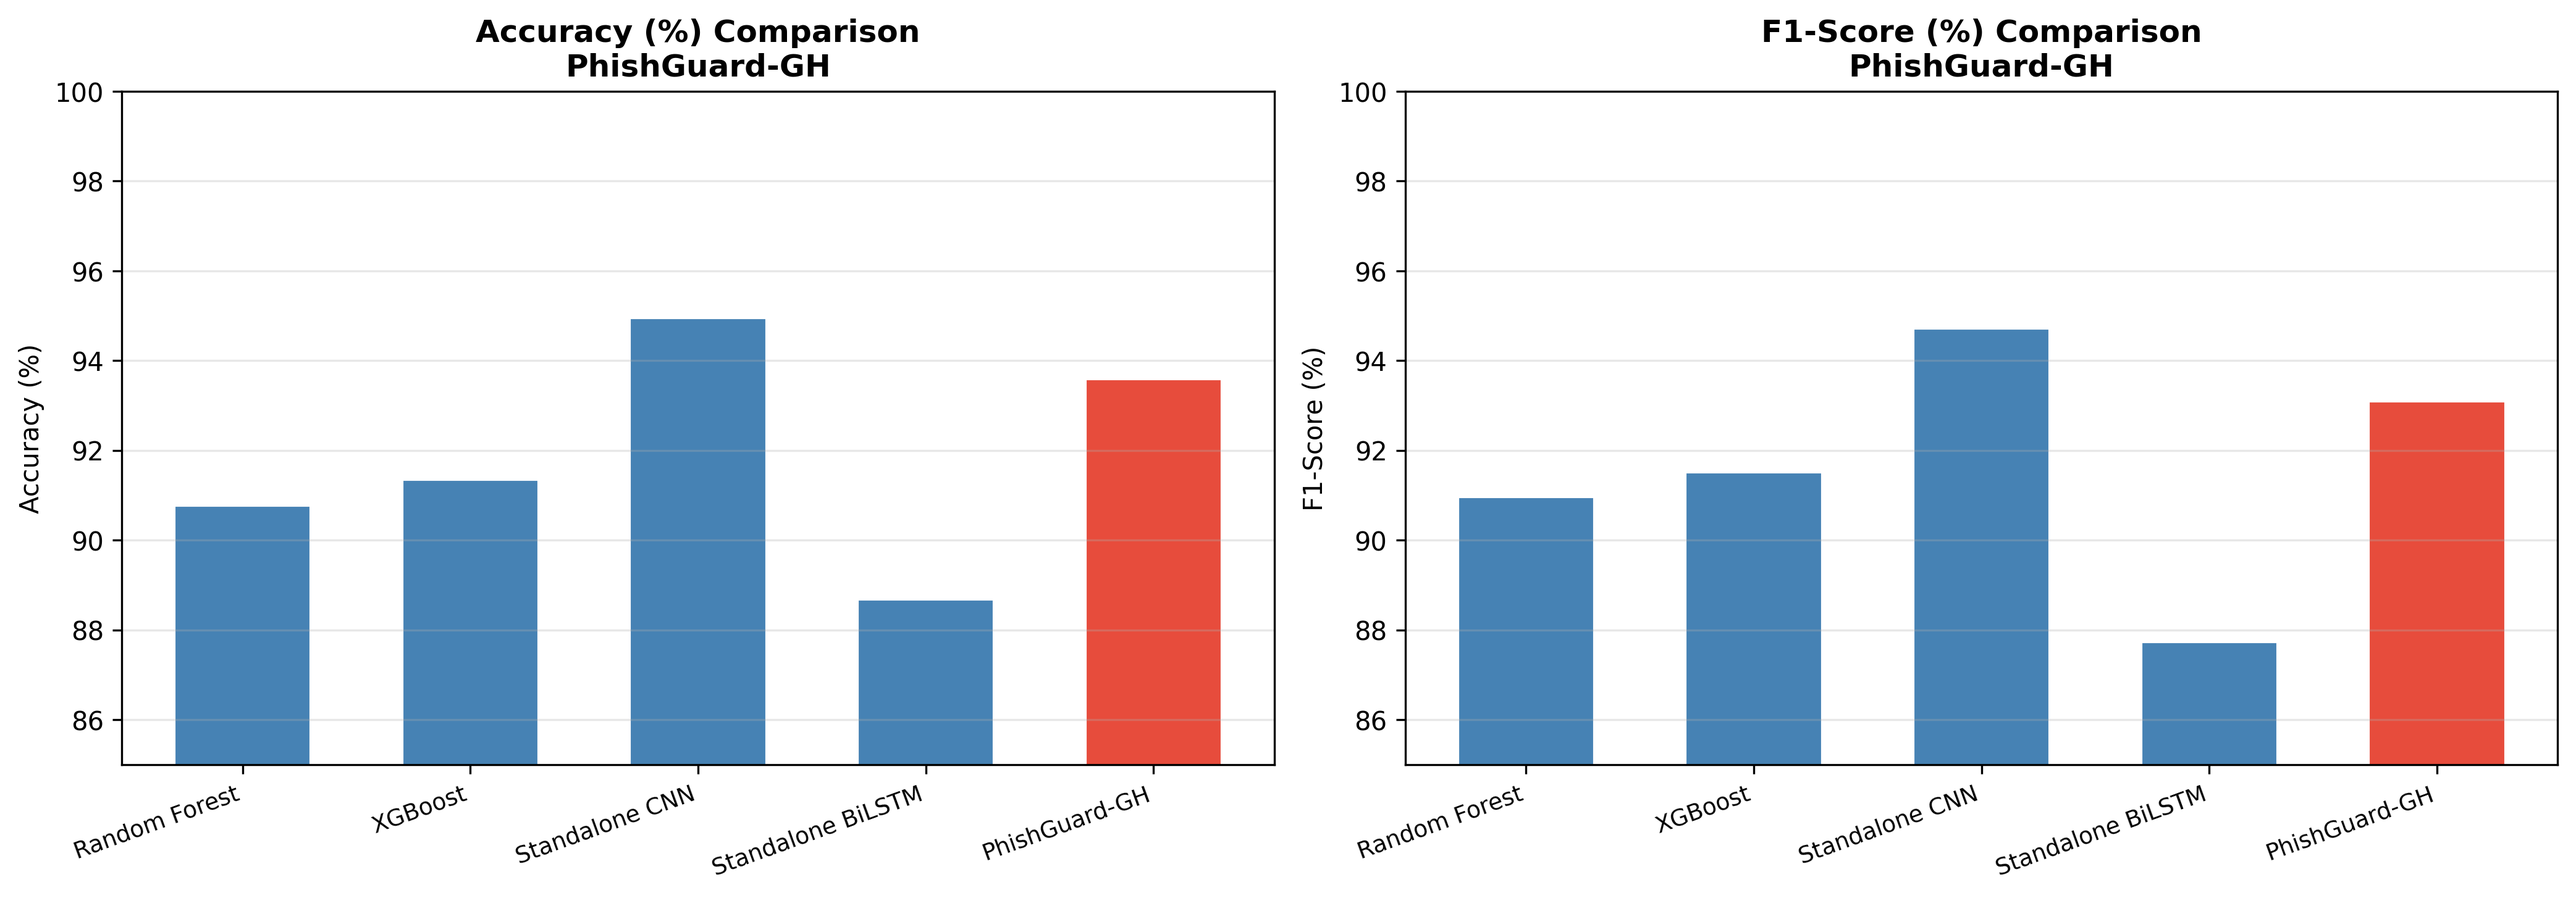
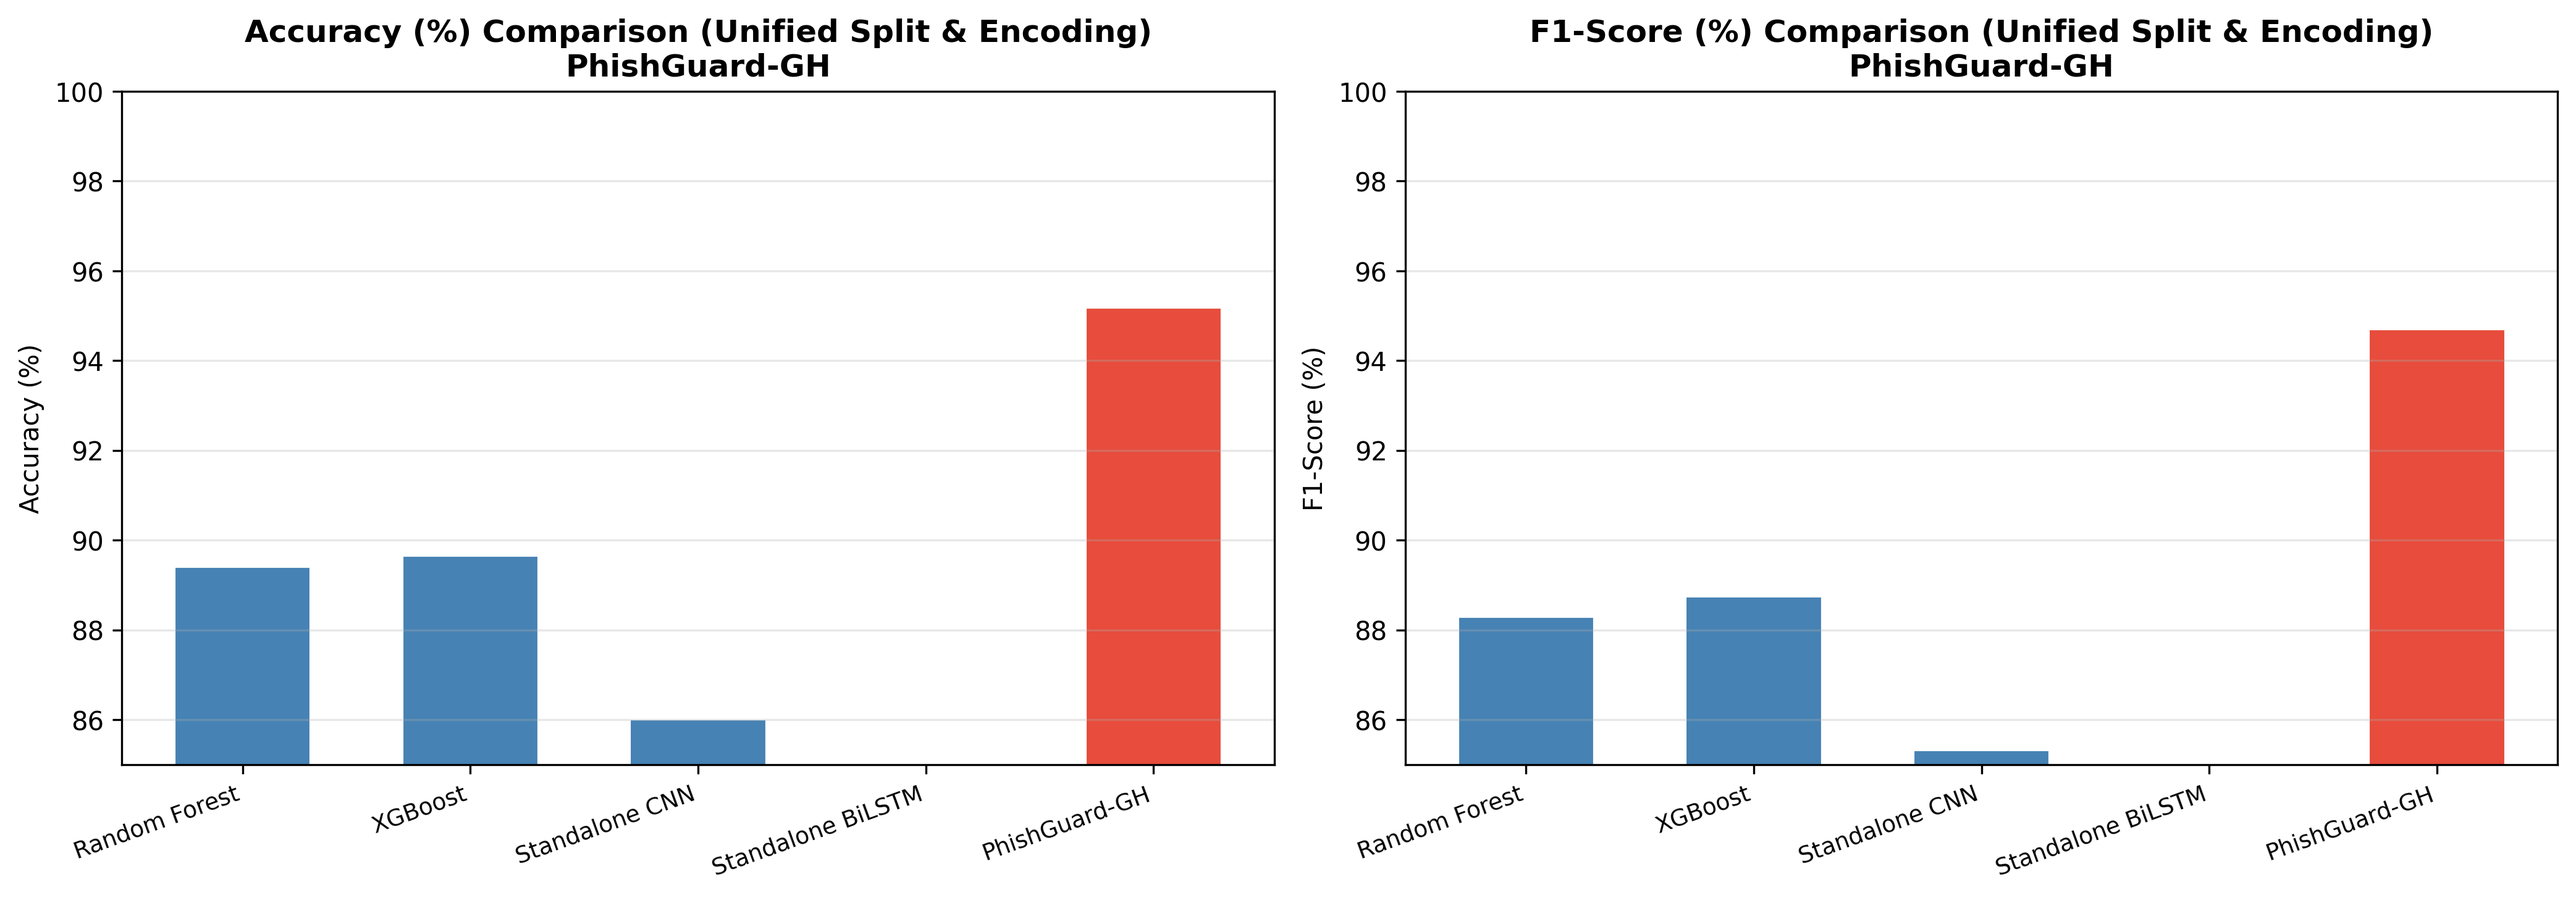
rerun of baseline

diff --git a/baseline_comparison.py b/baseline_comparison.py
@@ -1,108 +1,139 @@
+
+# PhishGuard-GH Baseline Model Comparison 
+
+
+
 import os, numpy as np, pandas as pd
-os.environ["TF_CPP_MIN_LOG_LEVEL"]="3"; os.environ["TF_ENABLE_ONEDNN_OPTS"]="0"
+os.environ["TF_CPP_MIN_LOG_LEVEL"] = "3"; os.environ["TF_ENABLE_ONEDNN_OPTS"] = "0"
 import keras
 from keras import layers, callbacks
 from sklearn.ensemble import RandomForestClassifier
-from sklearn.metrics import (accuracy_score,precision_score,recall_score,
-                              f1_score,roc_auc_score,roc_curve)
-from sklearn.model_selection import train_test_split
+from sklearn.metrics import (accuracy_score, precision_score, recall_score,
+                              f1_score, roc_auc_score, roc_curve)
 from xgboost import XGBClassifier
 import matplotlib; matplotlib.use("Agg")
 import matplotlib.pyplot as plt, joblib
 
-print("  PhishGuard-GH Baseline Model Comparison")
+from pg_fix import group_split  # the SAME split function used for PhishGuardGH
 
-MAX_LEN=200; VOCAB_SIZE=97; CHAR_TO_INT={chr(i):i-31 for i in range(32,127)}
+print("  PhishGuard-GH Baseline Model Comparison — unified split & encoding")
+
+MAX_LEN = 200; VOCAB_SIZE = 97
+CHAR_TO_INT = {chr(i): i - 31 for i in range(32, 127)}
+
+
+def strip_scheme(url: str) -> str:
+    u = str(url).strip()
+    for prefix in ("https://", "http://"):
+        if u.lower().startswith(prefix):
+            return u[len(prefix):]
+    return u
+
+
 def url_to_seq(url):
-    url=str(url).lower().strip()
-    return [CHAR_TO_INT.get(c,96) for c in url[:MAX_LEN]]+[0]*(MAX_LEN-len(url[:MAX_LEN]))
-def evaluate(yt,yp,ypr):
-    return {"accuracy":accuracy_score(yt,yp),
-            "precision":precision_score(yt,yp,zero_division=0),
-            "recall":recall_score(yt,yp,zero_division=0),
-            "f1":f1_score(yt,yp,zero_division=0),
-            "auc":roc_auc_score(yt,ypr)}
+    # scheme stripped, exactly matching model_hash.py's encoding for PhishGuardGH
+    url = strip_scheme(url).lower().strip()
+    seq = [CHAR_TO_INT.get(c, VOCAB_SIZE - 1) for c in url[:MAX_LEN]]
+    return seq + [0] * (MAX_LEN - len(seq))
+
+
+def evaluate(yt, yp, ypr):
+    return {"accuracy": accuracy_score(yt, yp),
+            "precision": precision_score(yt, yp, zero_division=0),
+            "recall": recall_score(yt, yp, zero_division=0),
+            "f1": f1_score(yt, yp, zero_division=0),
+            "auc": roc_auc_score(yt, ypr)}
+
 
 print("\nLoading data...")
-X_test=np.load("X_test.npy"); y_test=np.load("y_test.npy")
-feat=pd.read_csv("phishguard_features.csv"); fcols=[c for c in feat.columns if c!="label"]
-Xf=feat[fcols].values; yf=feat["label"].values
-Xftr,Xfte,yftr,yfte=train_test_split(Xf,yf,test_size=0.15,random_state=42,stratify=yf)
-url_df=pd.read_csv("phishguard_gh_dataset.csv")
-Xs=np.array([url_to_seq(u) for u in url_df["url"]],dtype=np.float32); ys=url_df["label"].values
-Xstr,Xste,ystr,yste=train_test_split(Xs,ys,test_size=0.15,random_state=42,stratify=ys)
-_,Xsv,_,ysv=train_test_split(Xstr,ystr,test_size=0.15/0.85,random_state=42,stratify=ystr)
+url_df = pd.read_csv("phishguard_gh_dataset.csv")
+feat_df = pd.read_csv("phishguard_features.csv")
+assert len(url_df) == len(feat_df), "dataset and feature files must have the same row count/order"
 
-RESULTS={}; ROC={}
-def store(name,yt,yp,ypr):
-    RESULTS[name]=evaluate(yt,yp,ypr); fpr,tpr,_=roc_curve(yt,ypr); ROC[name]=(fpr,tpr)
-    r=RESULTS[name]
+# ---- ONE split, shared by every model ----
+tr_idx, va_idx, te_idx = group_split(url_df)
+print(f"    Shared split — Train: {len(tr_idx):,}  Val: {len(va_idx):,}  Test: {len(te_idx):,}")
+
+y = url_df["label"].values
+Xf = feat_df.drop(columns=["label"]).values  # 23-feature matrix, same row order as url_df
+
+Xf_tr, yf_tr = Xf[tr_idx], y[tr_idx]
+Xf_te, yf_te = Xf[te_idx], y[te_idx]
+
+Xs = np.array([url_to_seq(u) for u in url_df["url"]], dtype=np.float32)
+Xs_tr, ys_tr = Xs[tr_idx], y[tr_idx]
+Xs_va, ys_va = Xs[va_idx], y[va_idx]
+Xs_te, ys_te = Xs[te_idx], y[te_idx]
+
+RESULTS = {}; ROC = {}
+def store(name, yt, yp, ypr):
+    RESULTS[name] = evaluate(yt, yp, ypr)
+    fpr, tpr, _ = roc_curve(yt, ypr); ROC[name] = (fpr, tpr)
+    r = RESULTS[name]
     print(f"  {name:<25} Acc={r['accuracy']*100:.2f}%  F1={r['f1']*100:.2f}%  AUC={r['auc']:.4f}")
 
-ES=callbacks.EarlyStopping(monitor="val_loss",patience=5,restore_best_weights=True,verbose=0)
+ES = callbacks.EarlyStopping(monitor="val_loss", patience=7, restore_best_weights=True, verbose=0)
 
-print("\nTraining Random Forest...")
-rf=RandomForestClassifier(n_estimators=200,n_jobs=-1,random_state=42)
-rf.fit(Xftr,yftr); joblib.dump(rf,"model_rf.pkl")
-store("Random Forest",yfte,rf.predict(Xfte),rf.predict_proba(Xfte)[:,1])
+print("\nTraining Random Forest (shared split)...")
+rf = RandomForestClassifier(n_estimators=200, n_jobs=-1, random_state=42)
+rf.fit(Xf_tr, yf_tr); joblib.dump(rf, "model_rf.pkl")
+store("Random Forest", yf_te, rf.predict(Xf_te), rf.predict_proba(Xf_te)[:, 1])
 
-print("Training XGBoost...")
-xgb=XGBClassifier(n_estimators=200,eval_metric="logloss",random_state=42)
-xgb.fit(Xftr,yftr,verbose=False); joblib.dump(xgb,"model_xgb.pkl")
-store("XGBoost",yfte,xgb.predict(Xfte),xgb.predict_proba(Xfte)[:,1])
+print("Training XGBoost (shared split)...")
+xgb = XGBClassifier(n_estimators=200, eval_metric="logloss", random_state=42)
+xgb.fit(Xf_tr, yf_tr, verbose=False); joblib.dump(xgb, "model_xgb.pkl")
+store("XGBoost", yf_te, xgb.predict(Xf_te), xgb.predict_proba(Xf_te)[:, 1])
 
-print("Training Standalone CNN...")
-i1=keras.Input(shape=(MAX_LEN,)); x1=layers.Embedding(VOCAB_SIZE,64)(i1)
-x1=layers.Conv1D(128,3,activation="relu",padding="same")(x1)
-x1=layers.GlobalMaxPooling1D()(x1); x1=layers.Dense(64,activation="relu")(x1)
-o1=layers.Dense(1,activation="sigmoid")(x1); cnn=keras.Model(i1,o1)
-cnn.compile(optimizer="adam",loss="binary_crossentropy",metrics=["accuracy"])
-cnn.fit(Xstr,ystr,validation_data=(Xsv,ysv),epochs=30,batch_size=256,callbacks=[ES],verbose=0)
-pc=cnn.predict(Xste,verbose=0).flatten()
-store("Standalone CNN",yste,(pc>=0.5).astype(int),pc)
+print("Training Standalone CNN (shared split, scheme-stripped encoding)...")
+i1 = keras.Input(shape=(MAX_LEN,)); x1 = layers.Embedding(VOCAB_SIZE, 64)(i1)
+x1 = layers.Conv1D(128, 3, activation="relu", padding="same")(x1)
+x1 = layers.GlobalMaxPooling1D()(x1); x1 = layers.Dense(64, activation="relu")(x1)
+o1 = layers.Dense(1, activation="sigmoid")(x1); cnn = keras.Model(i1, o1)
+cnn.compile(optimizer="adam", loss="binary_crossentropy", metrics=["accuracy"])
+cnn.fit(Xs_tr, ys_tr, validation_data=(Xs_va, ys_va), epochs=30, batch_size=256, callbacks=[ES], verbose=0)
+pc = cnn.predict(Xs_te, verbose=0).flatten()
+store("Standalone CNN", ys_te, (pc >= 0.5).astype(int), pc)
 
-print("Training Standalone BiLSTM...")
-i2=keras.Input(shape=(MAX_LEN,)); x2=layers.Embedding(VOCAB_SIZE,64)(i2)
-x2=layers.Bidirectional(layers.LSTM(128))(x2); x2=layers.Dropout(0.4)(x2)
-x2=layers.Dense(64,activation="relu")(x2); o2=layers.Dense(1,activation="sigmoid")(x2)
-bl=keras.Model(i2,o2); bl.compile(optimizer="adam",loss="binary_crossentropy",metrics=["accuracy"])
-bl.fit(Xstr,ystr,validation_data=(Xsv,ysv),epochs=30,batch_size=256,callbacks=[ES],verbose=0)
-pb2=bl.predict(Xste,verbose=0).flatten()
-store("Standalone BiLSTM",yste,(pb2>=0.5).astype(int),pb2)
+print("Training Standalone BiLSTM (shared split, scheme-stripped encoding)...")
+i2 = keras.Input(shape=(MAX_LEN,)); x2 = layers.Embedding(VOCAB_SIZE, 64)(i2)
+x2 = layers.Bidirectional(layers.LSTM(128))(x2); x2 = layers.Dropout(0.4)(x2)
+x2 = layers.Dense(64, activation="relu")(x2); o2 = layers.Dense(1, activation="sigmoid")(x2)
+bl = keras.Model(i2, o2); bl.compile(optimizer="adam", loss="binary_crossentropy", metrics=["accuracy"])
+bl.fit(Xs_tr, ys_tr, validation_data=(Xs_va, ys_va), epochs=30, batch_size=256, callbacks=[ES], verbose=0)
+pb2 = bl.predict(Xs_te, verbose=0).flatten()
+store("Standalone BiLSTM", ys_te, (pb2 >= 0.5).astype(int), pb2)
 
-print("Loading PhishGuard-GH...")
-mm=keras.models.load_model("phishguard_gh_model.keras",compile=False)
-ppg=mm.predict(X_test,verbose=0).flatten()
-store("PhishGuard-GH",y_test,(ppg>=0.5).astype(int),ppg)
+print("Loading PhishGuard-GH (already trained on this identical split by model_hash.py)...")
+mm = keras.models.load_model("phishguard_gh_model.keras", compile=False)
+ppg = mm.predict(Xs_te, verbose=0).flatten()  # NOTE: evaluated on Xs_te computed here, same te_idx as model_hash.py used
+store("PhishGuard-GH", ys_te, (ppg >= 0.5).astype(int), ppg)
 
-
-print(f"  {'Model':<24} {'Acc':>7} {'Prec':>7} {'Rec':>7} {'F1':>7} {'AUC':>7}")
-
-for name,r in RESULTS.items():
-    star=" ★" if name=="PhishGuard-GH" else ""
+print(f"\n  {'Model':<24} {'Acc':>7} {'Prec':>7} {'Rec':>7} {'F1':>7} {'AUC':>7}")
+for name, r in RESULTS.items():
+    star = " \u2605" if name == "PhishGuard-GH" else ""
     print(f"  {name+star:<24} {r['accuracy']*100:>6.2f}% {r['precision']*100:>6.2f}% "
           f"{r['recall']*100:>6.2f}% {r['f1']*100:>6.2f}% {r['auc']:>6.4f}")
 
+# Charts (same as original script)
+names = list(RESULTS.keys()); accs = [RESULTS[n]["accuracy"] * 100 for n in names]
+f1s = [RESULTS[n]["f1"] * 100 for n in names]
+colors = ["steelblue", "steelblue", "steelblue", "steelblue", "#e74c3c"]
+fig, axes = plt.subplots(1, 2, figsize=(14, 5)); x = np.arange(len(names))
+for ax, vals, lbl in [(axes[0], accs, "Accuracy (%)"), (axes[1], f1s, "F1-Score (%)")]:
+    ax.bar(x, vals, color=colors, edgecolor="white", width=0.6)
+    ax.set_xticks(x); ax.set_xticklabels(names, rotation=20, ha="right", fontsize=9)
+    ax.set_ylabel(lbl); ax.set_ylim(85, 100)
+    ax.set_title(f"{lbl} Comparison (Unified Split & Encoding)\nPhishGuard-GH", fontsize=12, fontweight="bold")
+    ax.grid(axis="y", alpha=0.3)
+plt.tight_layout(); plt.savefig("model_comparison.png", dpi=300, bbox_inches="tight"); plt.close()
 
-names=list(RESULTS.keys()); accs=[RESULTS[n]["accuracy"]*100 for n in names]
-f1s=[RESULTS[n]["f1"]*100 for n in names]
-colors=["steelblue","steelblue","steelblue","steelblue","#e74c3c"]
-fig,axes=plt.subplots(1,2,figsize=(14,5)); x=np.arange(len(names))
-for ax,vals,lbl in [(axes[0],accs,"Accuracy (%)"),(axes[1],f1s,"F1-Score (%)")]:
-    ax.bar(x,vals,color=colors,edgecolor="white",width=0.6)
-    ax.set_xticks(x); ax.set_xticklabels(names,rotation=20,ha="right",fontsize=9)
-    ax.set_ylabel(lbl); ax.set_ylim(85,100)
-    ax.set_title(f"{lbl} Comparison\nPhishGuard-GH",fontsize=12,fontweight="bold")
-    ax.grid(axis="y",alpha=0.3)
-plt.tight_layout(); plt.savefig("model_comparison.png",dpi=300,bbox_inches="tight"); plt.close()
-
-lc=["#95a5a6","#7f8c8d","#3498db","#2ecc71","#e74c3c"]; lw=[1.5,1.5,1.5,1.5,3.0]
-plt.figure(figsize=(8,6))
-for i,(name,(fpr,tpr)) in enumerate(ROC.items()):
-    plt.plot(fpr,tpr,color=lc[i],lw=lw[i],label=f"{name} (AUC={RESULTS[name]['auc']:.4f})")
-plt.plot([0,1],[0,1],"k--",alpha=0.4); plt.xlabel("FPR"); plt.ylabel("TPR")
-plt.title("ROC Comparison\nPhishGuard-GH",fontsize=12,fontweight="bold")
+lc = ["#95a5a6", "#7f8c8d", "#3498db", "#2ecc71", "#e74c3c"]; lw = [1.5, 1.5, 1.5, 1.5, 3.0]
+plt.figure(figsize=(8, 6))
+for i, (name, (fpr, tpr)) in enumerate(ROC.items()):
+    plt.plot(fpr, tpr, color=lc[i], lw=lw[i], label=f"{name} (AUC={RESULTS[name]['auc']:.4f})")
+plt.plot([0, 1], [0, 1], "k--", alpha=0.4); plt.xlabel("FPR"); plt.ylabel("TPR")
+plt.title("ROC Comparison (Unified Split & Encoding)\nPhishGuard-GH", fontsize=12, fontweight="bold")
 plt.legend(fontsize=8); plt.grid(alpha=0.3); plt.tight_layout()
-plt.savefig("roc_comparison.png",dpi=300,bbox_inches="tight"); plt.close()
-print("\n  Saved: model_comparison.png  roc_comparison.png")
+plt.savefig("roc_comparison.png", dpi=300, bbox_inches="tight"); plt.close()
 
+print("\n  Saved: model_comparison.png  roc_comparison.png")
